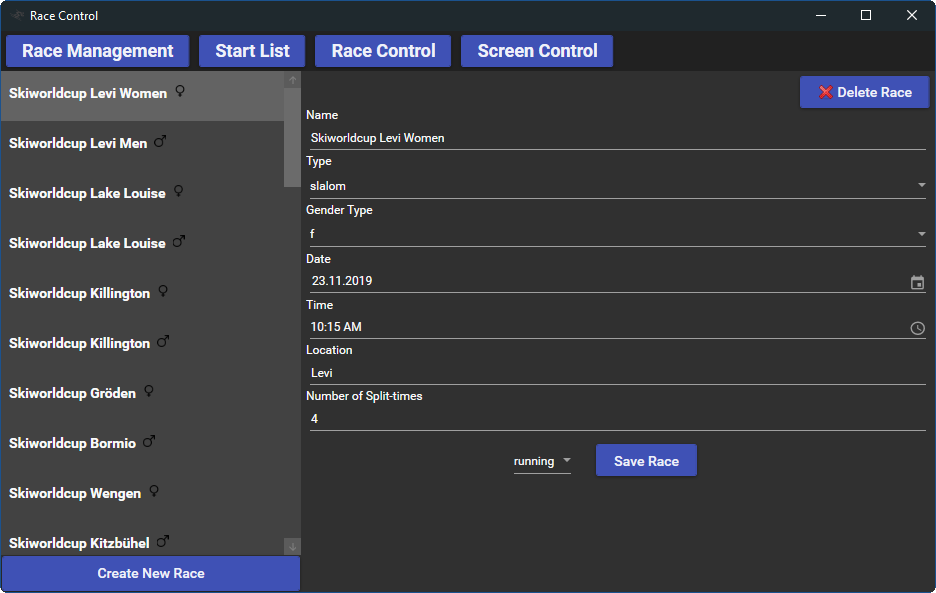
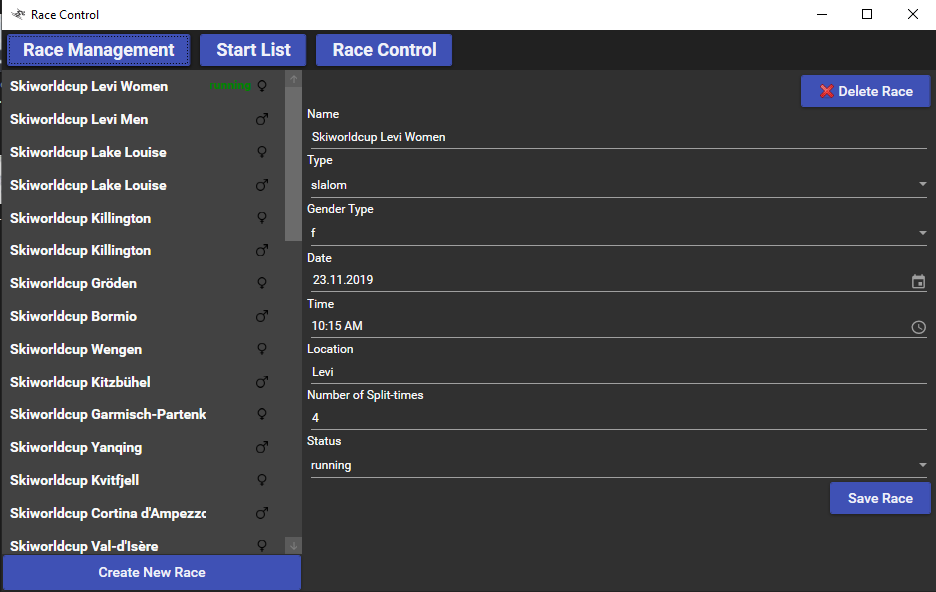
changed doc

diff --git a/doc/SWK5_hurace-g1-beyer-g1-schneebauer.tex b/doc/SWK5_hurace-g1-beyer-g1-schneebauer.tex
@@ -69,7 +69,34 @@
 		\item{Die Api bzw. das RaceControl kann verwendet werden}
 	\end{enumerate}
 	
+	\section{README}
+	Es wird davon ausgegangen, dass es nur ein Race mit dem Status 'running' gibt. Die Anwendung ist so ausgelegt, dass man verschiedene Races bearbeiten kann, und genau eines davon den Status 'running' besitzen soll. Gibt es kein entsprechendes Race funktionieren die Startlistenverwaltung und das RaceControl nicht.
 	
+	\subsection{Workflow}
+	
+	\begin{enumerate}
+		\item{Aktuelles running Race verwenden oder neues erstellen und Status entsprechend bei beiden Races abändern}
+		\newline
+		\includegraphics[width=.7\textwidth]{img/ui_raceManagement.png}
+		\newline
+		\includegraphics[width=.7\textwidth]{img/ui_raceManagement_create.png}
+		\item{Skier zur Startliste hinzufügen und Startliste sortieren. Wenn kein running Race vorhanden, dann Fehler}
+		\newline
+		\includegraphics[width=.7\textwidth]{img/ui_startList.png}
+		\newline
+		\includegraphics[width=.7\textwidth]{img/ui_startList_no_race.png}
+		\item{Den Simulator (Toggle Brain Symbol) aktivieren}
+		\newline
+		\includegraphics[width=.7\textwidth]{img/ui_raceControl_simulator.png}
+		\item{Skier lauf starten (Start Run). Der Simulator liefert nun Zwischenzeiten. Wenn alle Zwischenzeiten vorhanden, dann den lauf beenden (Clearence)}
+		\newline
+		\includegraphics[width=.7\textwidth]{img/ui_raceControl_finsihed.png}
+		\item{Diesen Ablauf für jeden Skier wiederholen.}
+		\item{Nach Ende des ersten Durchgangs startet gleich der zweite Druchgang mit entsprechender Startreihenfolge}
+				\newline
+		\includegraphics[width=.7\textwidth]{img/ui_raceControl_run2.png}
+		
+	\end{enumerate}
 
 	\section{Hurace.Core}
 	\subsection{DAL}
